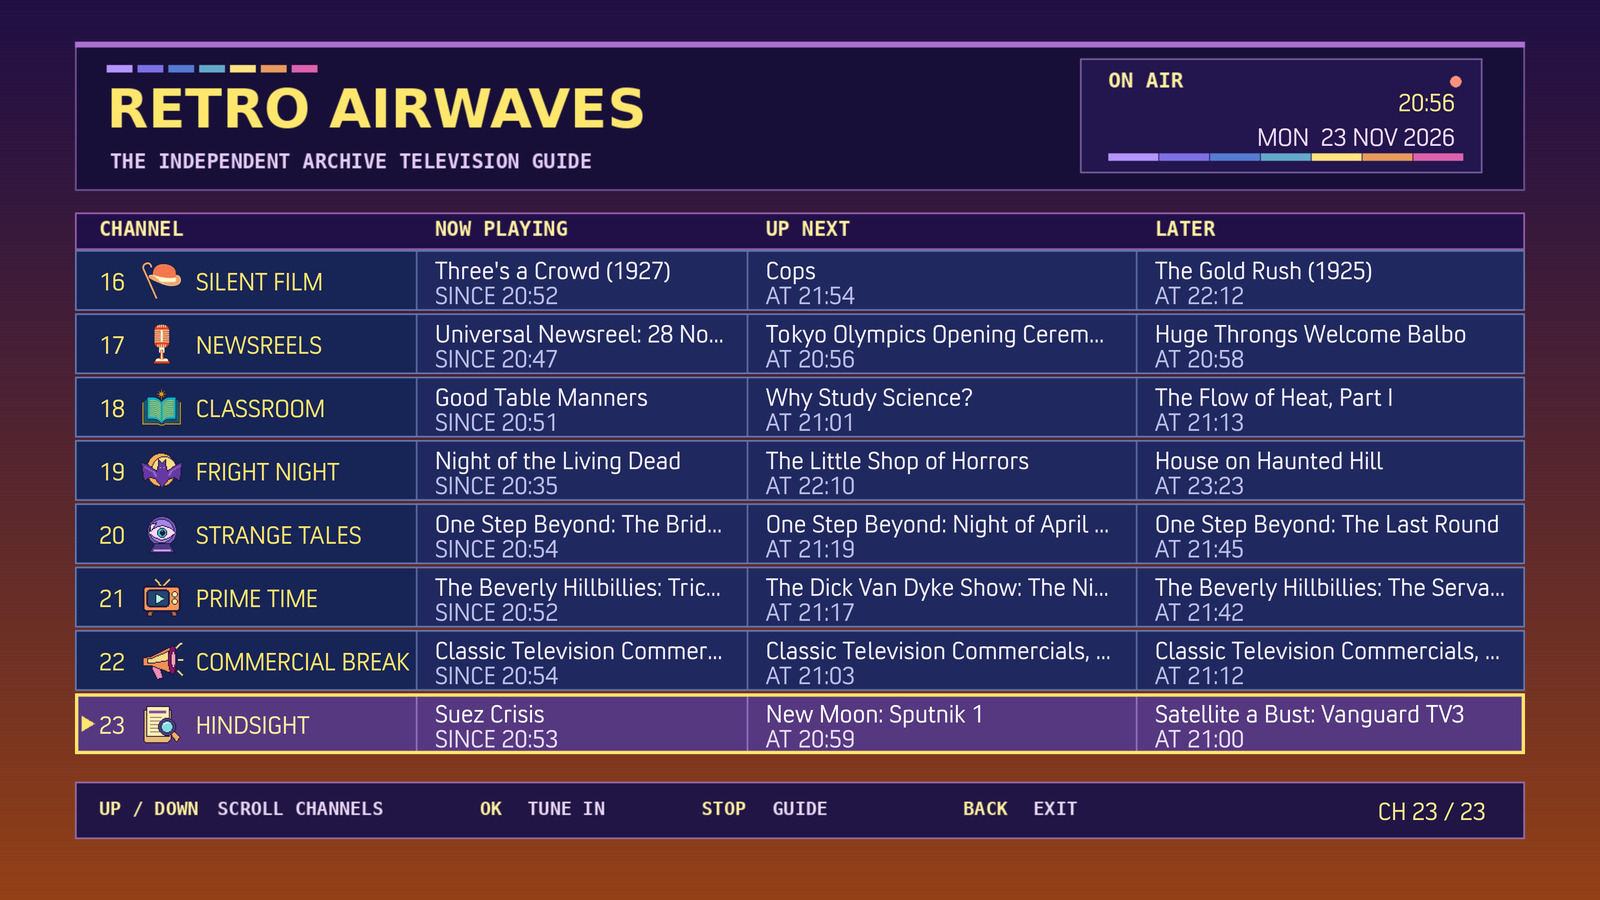
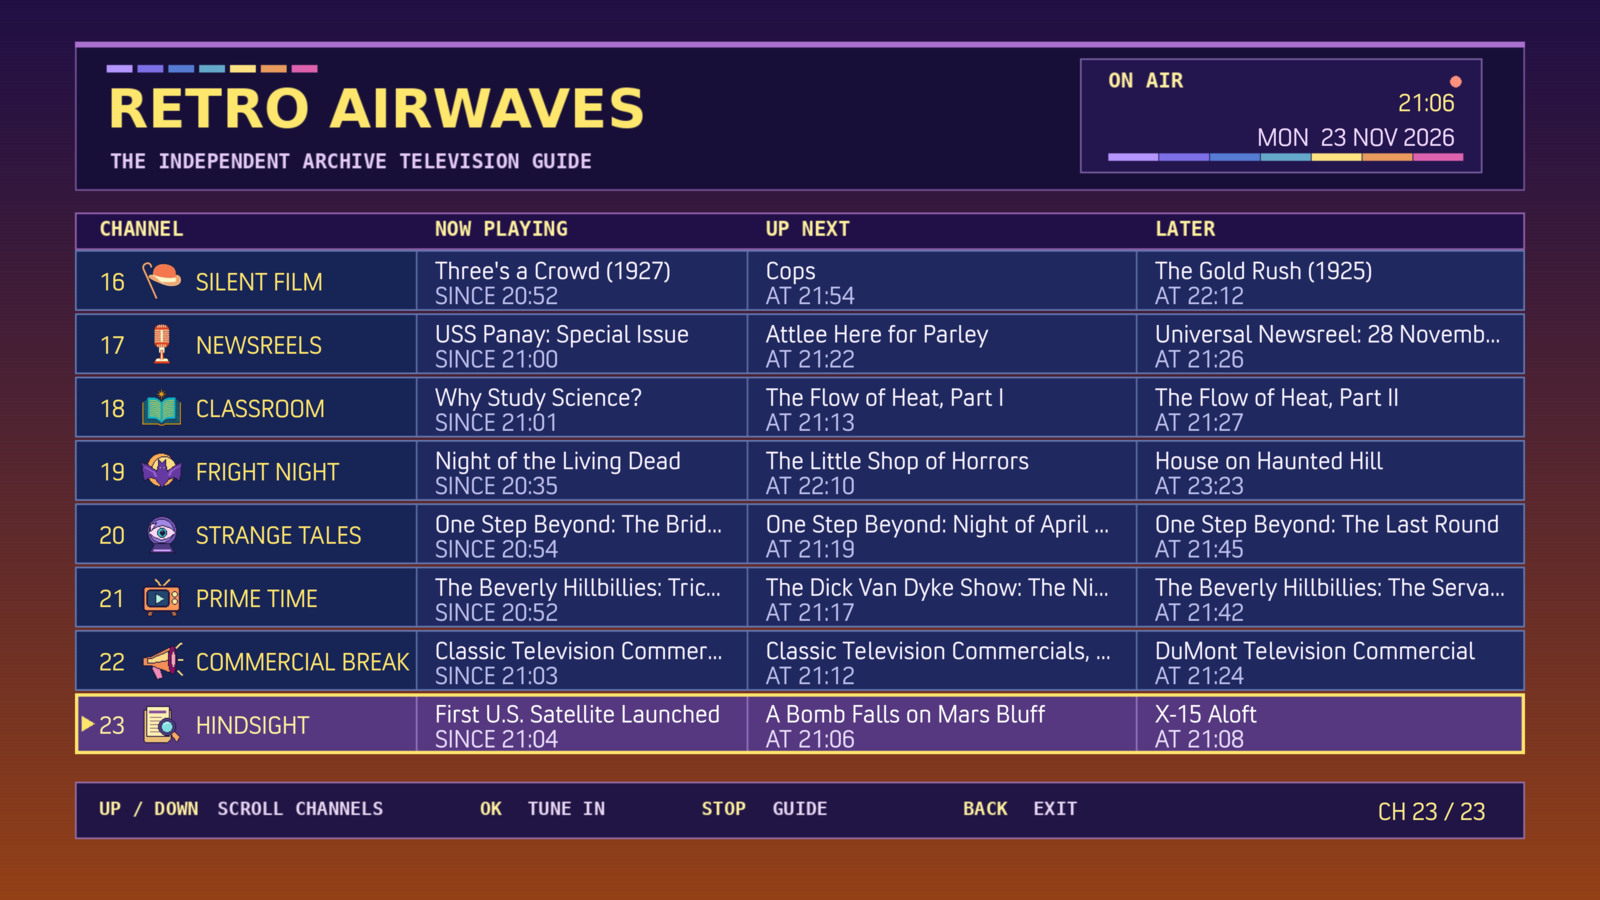
docs: refresh all Retro Airwaves screenshots
- Capture the live GitHub Pages guide and the current Kodi guide and playback.
- Update the playback caption and source link for Strange Tales.

diff --git a/README.md b/README.md
@@ -10,7 +10,7 @@ Retro Airwaves is an independent alternative to [Spelunkr](https://spelunkr.tv/a
 
 [Watch Retro Airwaves on GitHub Pages](https://gowanginc.github.io/retro-airwaves/web/). No Kodi installation is needed.
 
-![Browser guide with a live channel timeline and program details](screenshots/browser-guide.jpg)
+![Retro Airwaves in the browser, with the channel timeline and historical context for a Hindsight newsreel](screenshots/browser-guide.jpg)
 
 Choose a channel to join the program already in progress. The browser streams directly from the archives; if a stream is unavailable, use the program source link or try another channel.
 
@@ -32,9 +32,9 @@ The first six channels are **Kids Club** (ranger activities and animation), **St
 
 Channels 19–23 are **Fright Night** (classic horror), **Strange Tales** (scripted *One Step Beyond* episodes, including *Dead Ringer* and *Anniversary of a Murder*), **Prime Time** (vintage sitcoms), **Commercial Break** (classic TV ads), and **Hindsight** (newsreels with historical context). Strange Tales does not carry the *Unsolved Mysteries* series.
 
-![A frame from the 1941 Superman cartoon playing fullscreen in Kodi](screenshots/playback.jpg)
+![A reel-to-reel recorder in a black-and-white episode of One Step Beyond playing fullscreen in Kodi](screenshots/playback.jpg)
 
-Playback example: [Superman (1941)](https://archive.org/details/superman_1941), marked public domain by the Internet Archive item.
+Playback example: [*One Step Beyond: The Bride Possessed*](https://archive.org/details/OSB-TheBridePossessed) on Strange Tales (channel 20). The Internet Archive item marks the episode public domain.
 
 ## Develop
 
